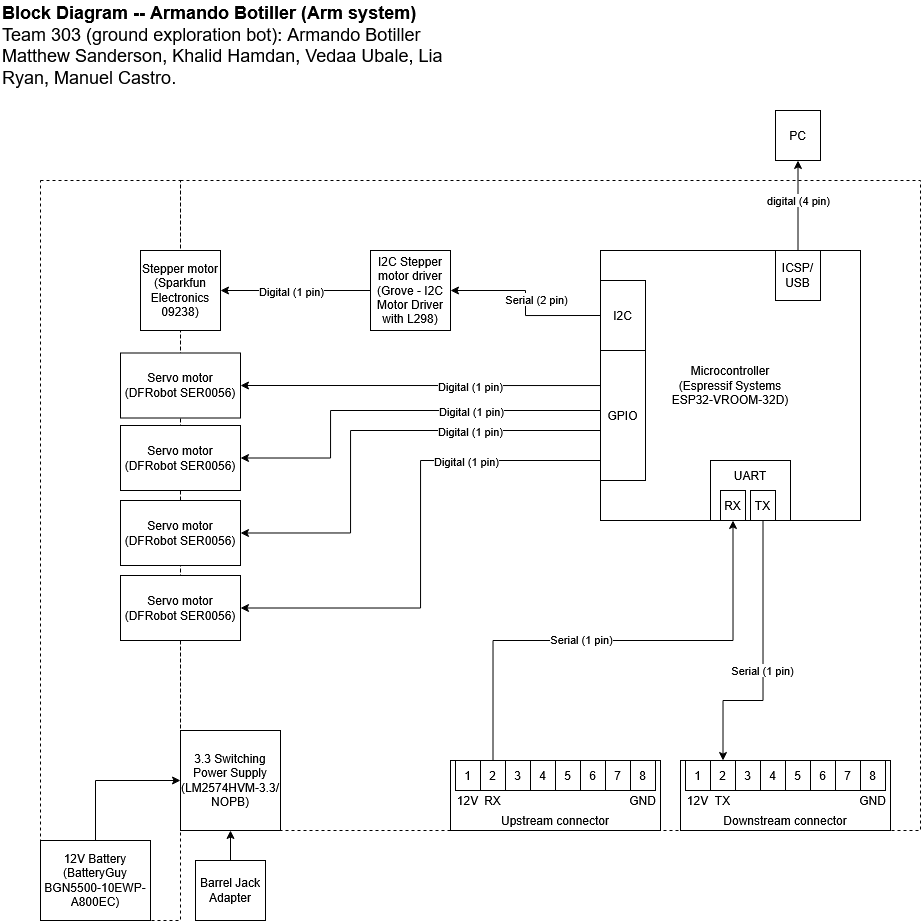
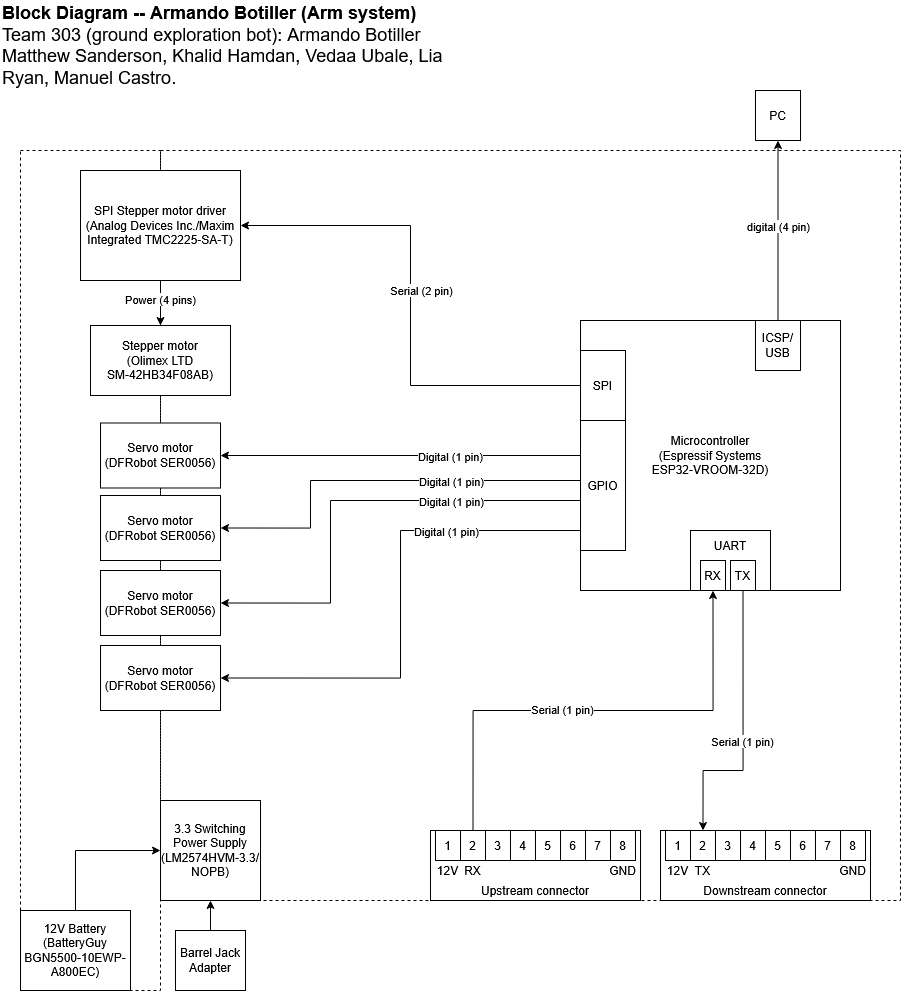
deploy: 1a4ac7c7e48995f8c1ac647fd4ed3ce9bdb6bc5e

diff --git a/03-Component-Selection/Component-Selection/index.html b/03-Component-Selection/Component-Selection/index.html
@@ -964,6 +964,11 @@ For more details, review the <a href="https://embedded-systems-design.github.io/
 <td>* Inexpensive<br>* Lots of documentation to help implement.<br>* Works within same voltage level as selected ESP32 microcontroller.<br>* Can control selected bipolar primary actuator with reasonable accuracy.</td>
 <td>* No serial communication options: only logic using 7 wires.</td>
 </tr>
+<tr>
+<td><a class="glightbox" data-type="image" data-width="auto" data-height="auto" href="../controller2.png" data-desc-position="bottom"><img alt="" src="../controller2.png"></a><br> TMC2225-SA-T IC MTR DRV 4.75-36V HTSSOP28<br>$4.61/each<br><a href="https://www.digikey.com/en/products/detail/analog-devices-inc-maxim-integrated/TMC2225-SA-T/13996142">link to product</a></td>
+<td>* Relatively inexpensive compared to other TMC controllers.<br>* Ultra silent control.<br>* Works within same voltage level of microcontroller.<br>* More than enough maximum current output to control selected stepper motor.<br>* Uses SPI or UART serial communication protocols.</td>
+<td></td>
+</tr>
 </tbody>
 </table>
 <h3 id="secondary-actuators">Secondary actuators</h3>
